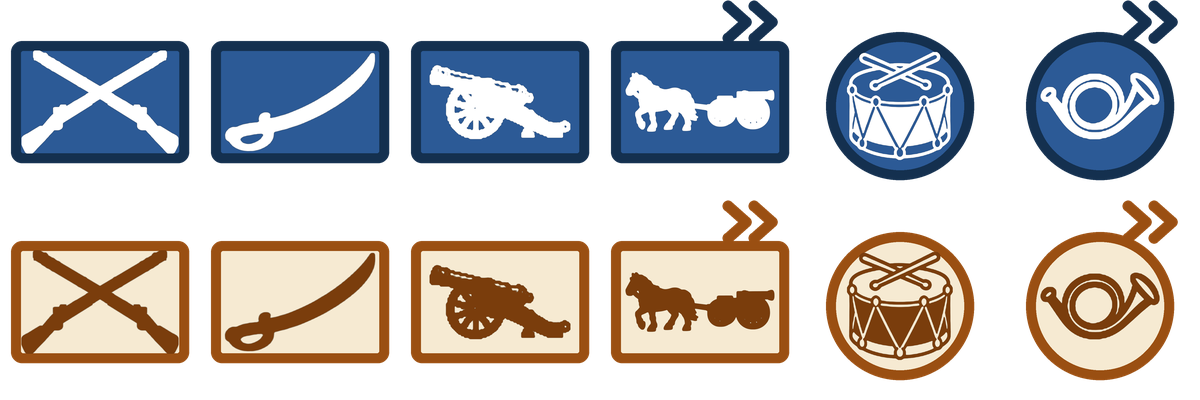
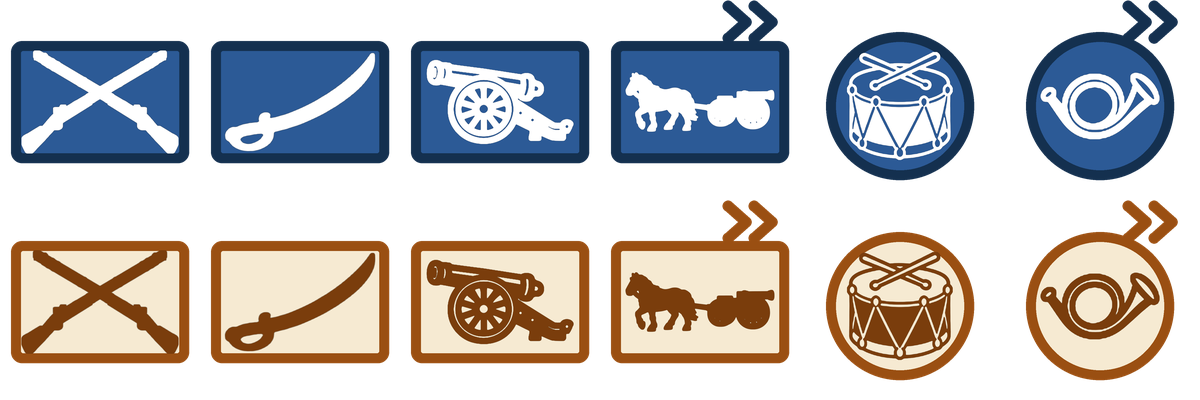
Jeu de la guerre : nouveau canon pour l'artillerie (skin « Pictogrammes »)
Le canon de l'artillerie est repris d'un médaillon dessiné à part
(extra/sprites/pictos/src/artillerie.png), dans le style du tambour et
du cor ; seul le tracé intérieur est gardé, aux couleurs de la skin.

Claude-Session: https://claude.ai/code/session_01GLvZafqpa9zjgeXFAF2Wvq

Changed region(s): [[0.3392, 0.63, 0.4933, 0.87], [0.3392, 0.15, 0.4933, 0.36]]

diff --git a/src/games/kriegspiel/extra/sprites/pictos/gen.py b/src/games/kriegspiel/extra/sprites/pictos/gen.py
@@ -46,8 +46,9 @@ UNITS = [
     dict(src="infanterie.png", mode="silhouette", grow=2.5, box=(152, 98), stretch=True),
     # cavalerie : un sabre sur la diagonale montante, le « / » de l'OTAN
     dict(src="sabre.png", mode="silhouette", grow=0.5, box=(150, 98), stretch=True),
-    # artillerie : canon de profil (l'OTAN met un rond : la roue en tient lieu)
-    dict(src="artillerie.png", mode="silhouette", grow=0.5, box=(140, 100)),
+    # artillerie : canon de profil (l'OTAN met un rond : la roue en tient lieu),
+    # tracé repris d'un médaillon
+    dict(src="artillerie.png", mode="medaillon", disc=(297, 285, 183), grow=0.5, box=(146, 100)),
     dict(src="artillerie-a-cheval.png", mode="silhouette", grow=0.5, box=(148, 104), swift=True),
     # transmission : tambour d'un médaillon dessiné à part ; seul le dessin
     # intérieur est repris, le cadre rond est celui de la skin
